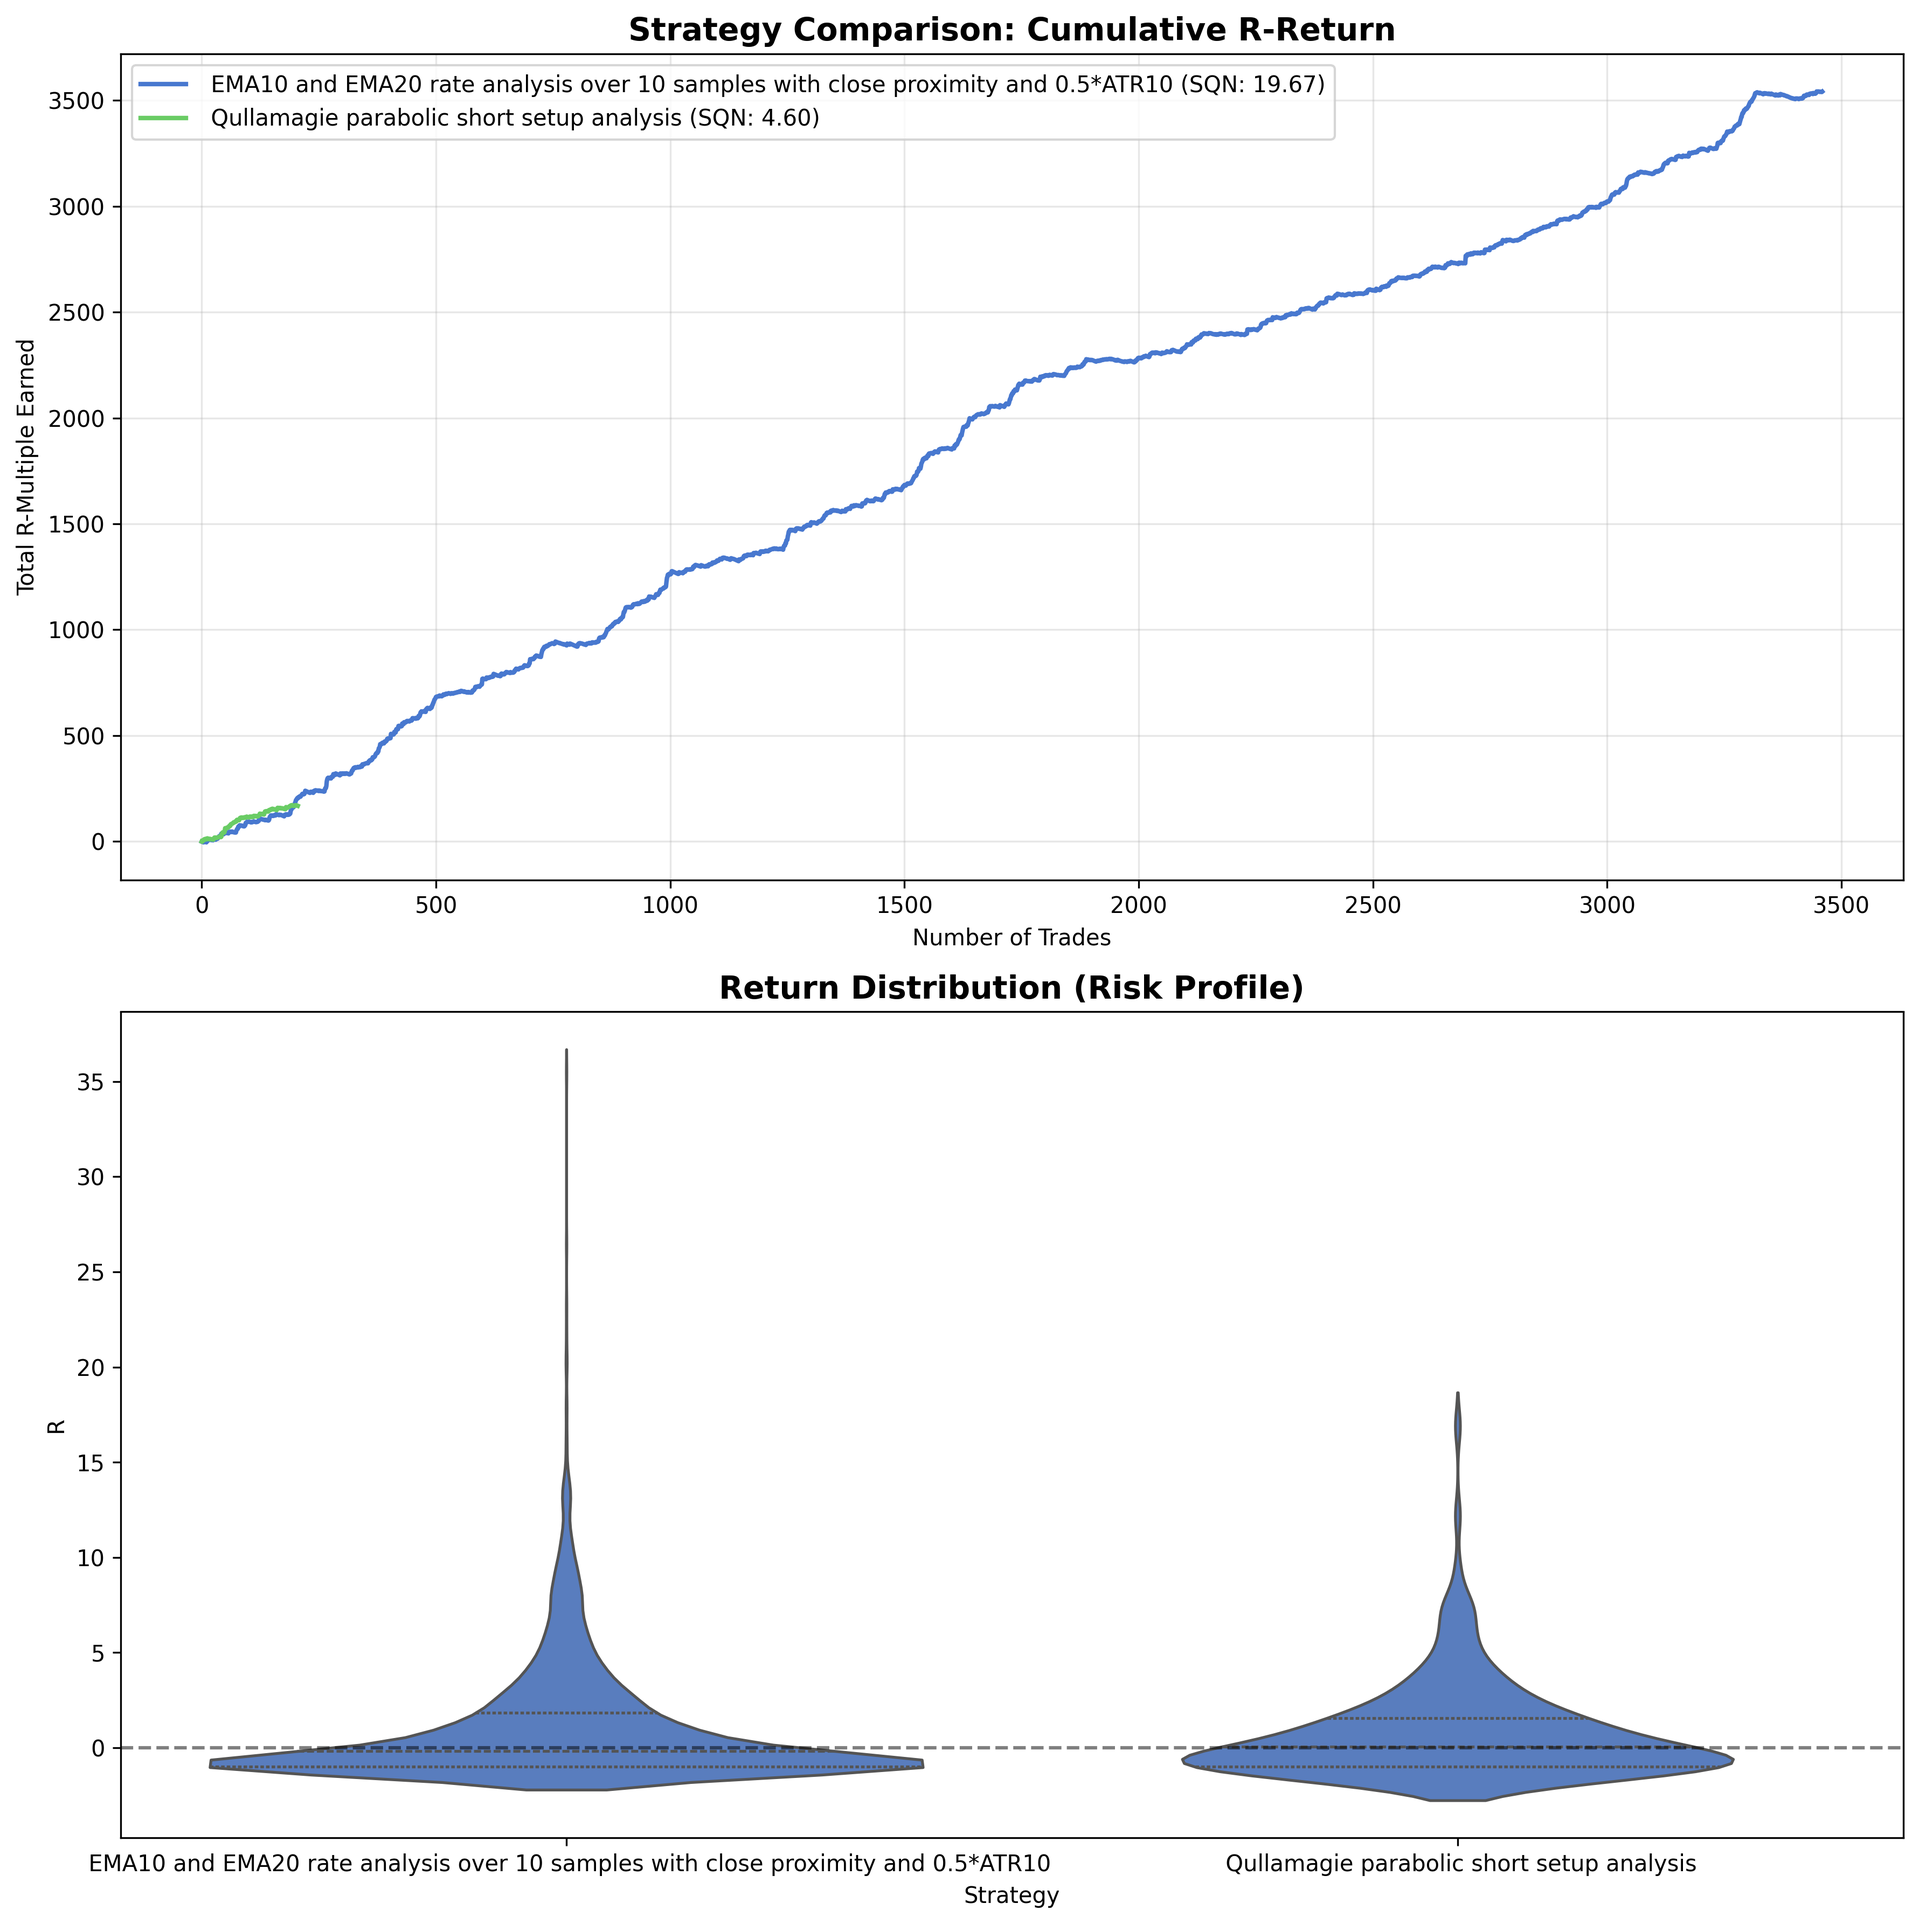
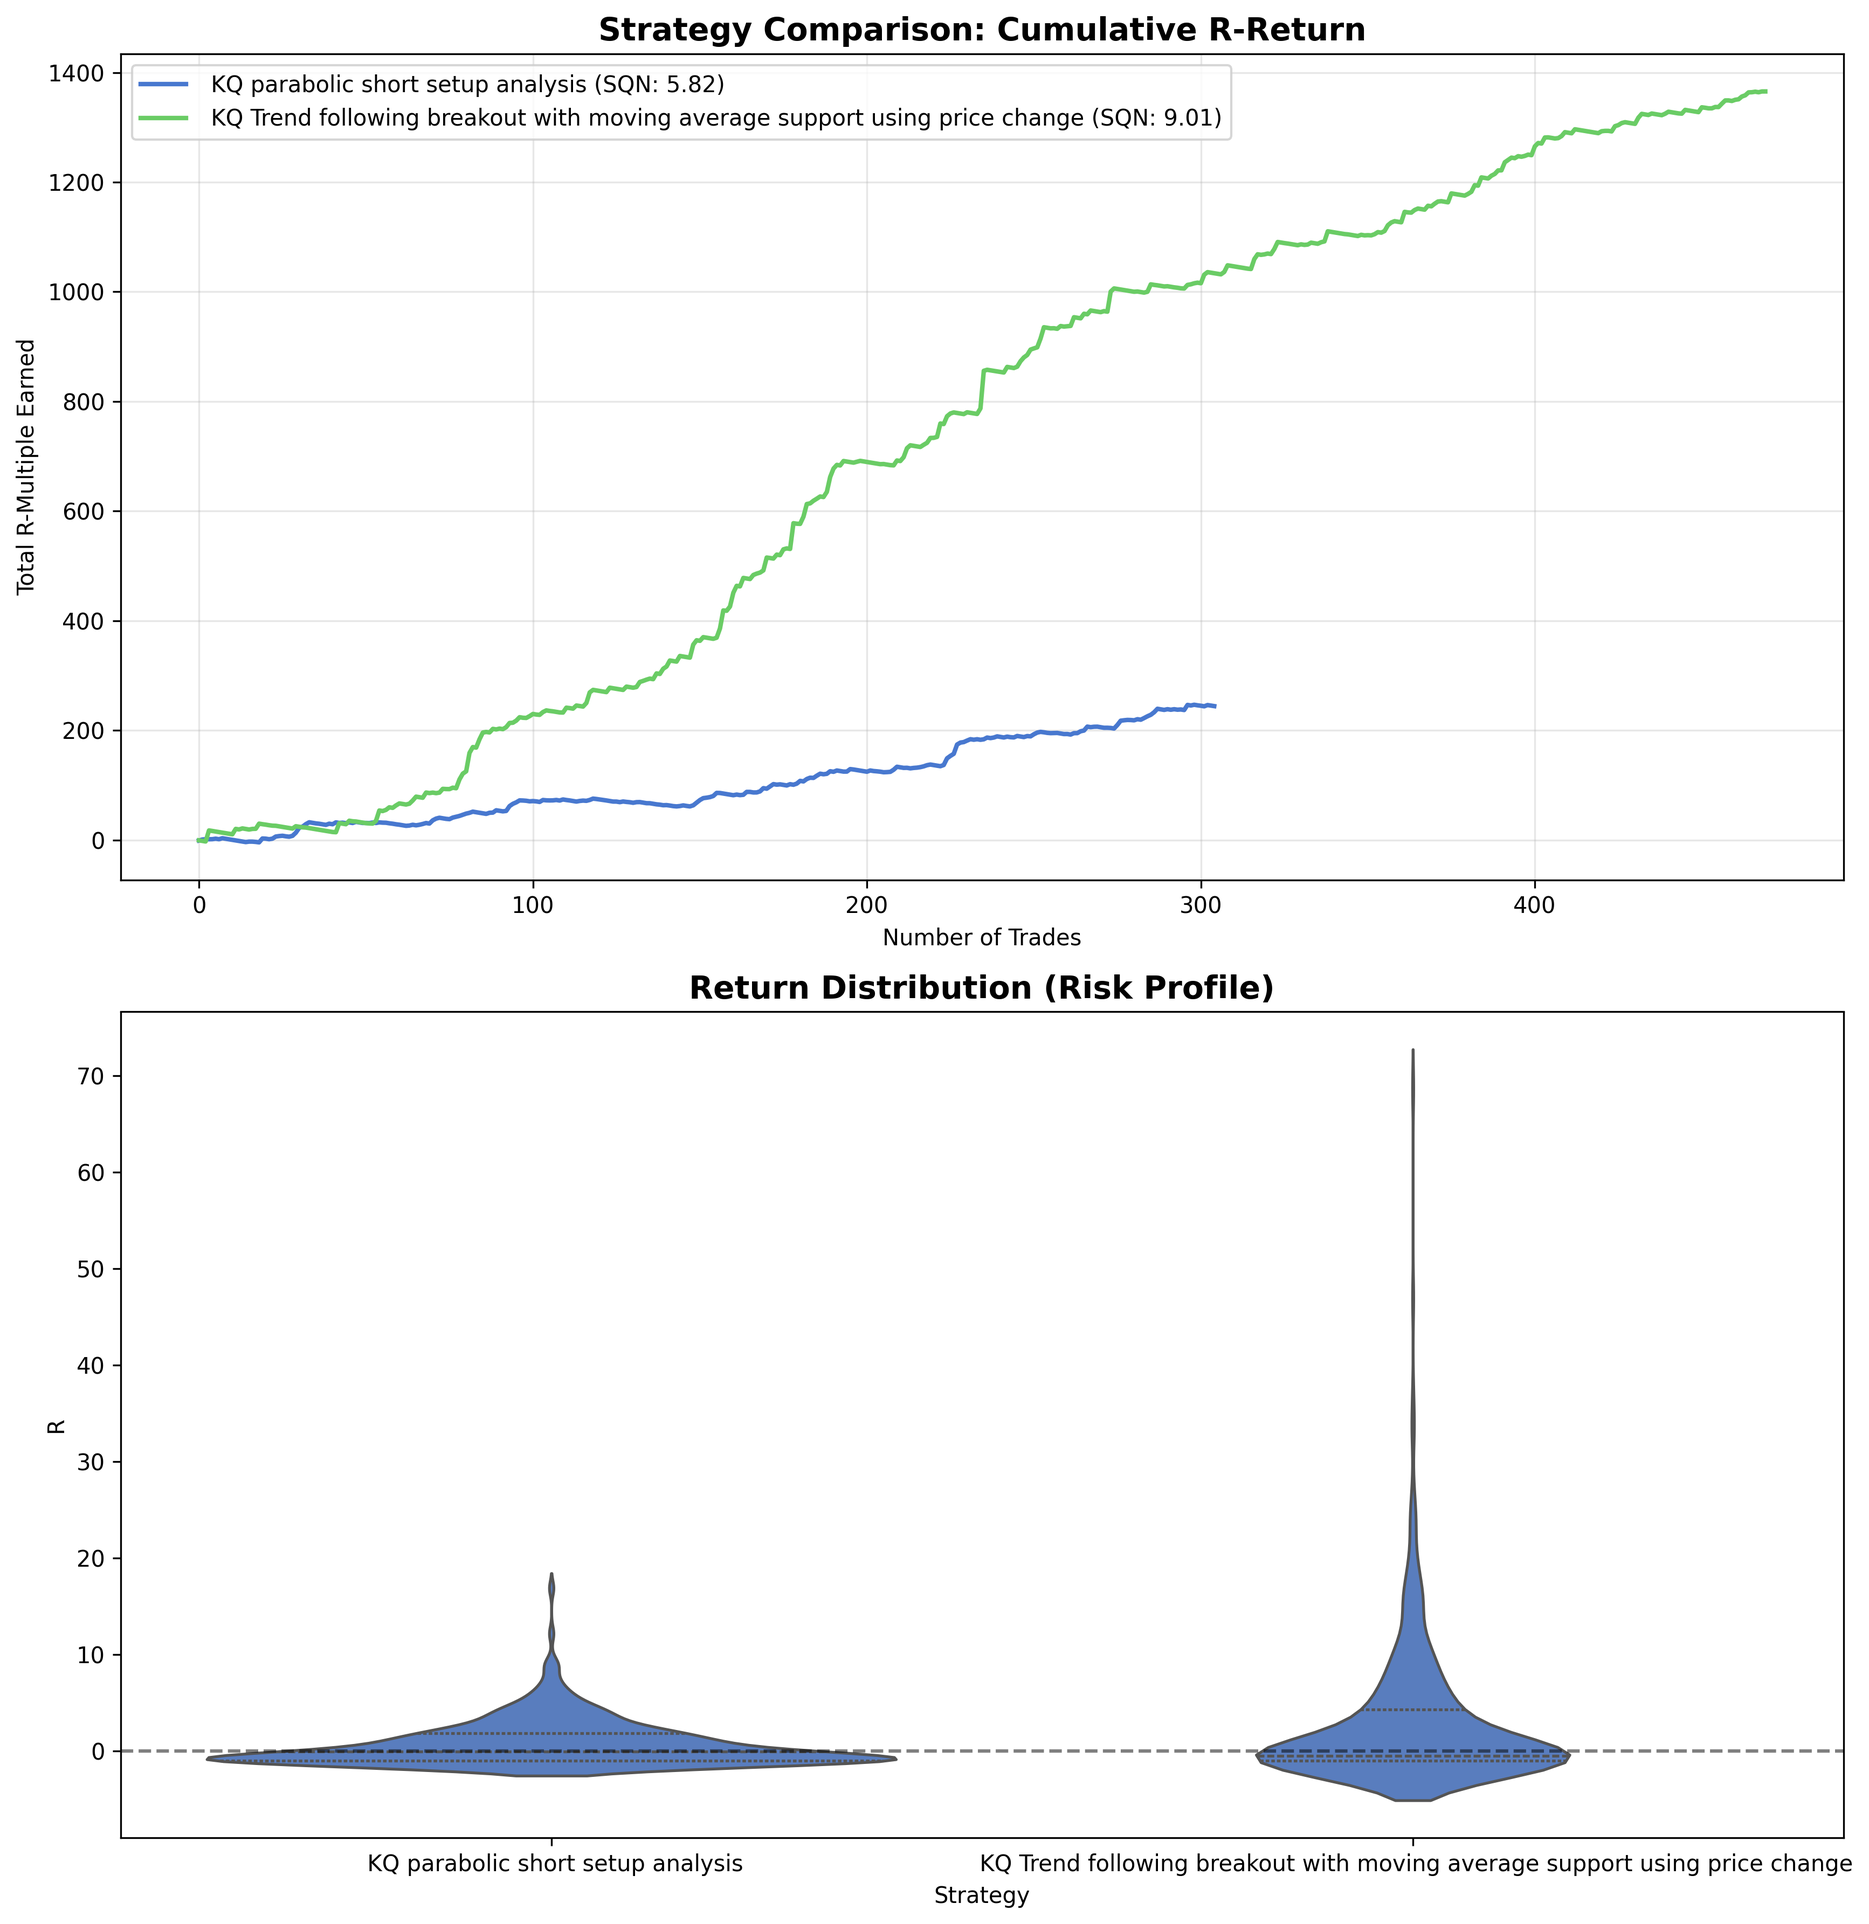
Optimize trade comparison

diff --git a/main.py b/main.py
@@ -133,16 +133,16 @@ async def parse_gherkin_query(request: Request):
 async def backtest_gherkin_query(request: Request):
     try:
         jsn = await request.json()
-        gherkin_text = jsn.get("gherkin", "")
+        queries = jsn.get("queries", [])
         start = jsn.get('start', 20)
         stop = jsn.get('stop', 0)
         stop_loss = jsn.get('stop_loss', 1)
         commision = jsn.get('commision', 0.01)
 
-        if not gherkin_text:
-            return {"success": False, "errors": "No Gherkin text provided"}
+        if len(queries) == 0:
+            return {"success": False, "errors": "No queries provided"}
 
-        trade_handler = TradeHandler()
+        trade_handlers = [TradeHandler() for _ in queries]
         errors = []
         # Define the core logic as an internal async function
         async def backtest_func():
@@ -161,11 +161,14 @@ async def backtest_gherkin_query(request: Request):
                     # Using run_in_executor allows the event loop to keep heartbeating
                     # so 'is_disconnected()' actually stays responsive.
                     loop = asyncio.get_event_loop()
-                    await loop.run_in_executor(
-                        None, 
-                        bt_query_handler.get_backtest_result,
-                        gherkin_text, trade_handler, itr, stop_loss
-                    )
+                    for i in range(len(queries)):
+                        query = queries[i]
+                        trade_handler = trade_handlers[i]
+                        await loop.run_in_executor(
+                            None, 
+                            bt_query_handler.get_backtest_result,
+                            query, trade_handler, itr, stop_loss
+                        )
                 except Exception as e:
                     errors.append(str(e))
             
@@ -184,28 +187,34 @@ async def backtest_gherkin_query(request: Request):
         except asyncio.TimeoutError:
             raise HTTPException(status_code=504, detail='Timeout')
 
-        r_multiples = trade_handler.close_df['rmulti'] - commision
-        
-        # 2. Calculate Fitness Metrics for the AI Agent
-        metrics = {
-            "total_trades": len(r_multiples),
-            "r": r_multiples,
-            "expectancy_r": r_multiples.mean() if not r_multiples.empty else 0,
-            "std_dev_r": r_multiples.std() if not r_multiples.empty else 0,
-            "max_r": r_multiples.max() if not r_multiples.empty else 0,
-            "min_r": r_multiples.min() if not r_multiples.empty else 0,
-            "win_rate": (r_multiples > 0).sum() / len(r_multiples) if len(r_multiples) > 0 else 0
-        }
-        # SQN > 1.6: Average, 2.0: Good, 3.0: Excellent, 5.0+: Holy Grail
-        metrics["sqn"] = (numpy.sqrt(metrics["total_trades"]) * 
-                  (metrics["expectancy_r"] / (metrics["std_dev_r"] + 1e-6)))
+        results = []
+        for i in range(len(queries)):
+            query = queries[i]
+            trade_handler = trade_handlers[i]
+            r_multiples = trade_handler.close_df['rmulti'] - commision
+            
+            # 2. Calculate Fitness Metrics for the AI Agent
+            metrics = {
+                "total_trades": len(r_multiples),
+                "r": r_multiples,
+                "expectancy_r": r_multiples.mean() if not r_multiples.empty else 0,
+                "std_dev_r": r_multiples.std() if not r_multiples.empty else 0,
+                "max_r": r_multiples.max() if not r_multiples.empty else 0,
+                "min_r": r_multiples.min() if not r_multiples.empty else 0,
+                "win_rate": (r_multiples > 0).sum() / len(r_multiples) if len(r_multiples) > 0 else 0
+            }
+            # SQN > 1.6: Average, 2.0: Good, 3.0: Excellent, 5.0+: Holy Grail
+            metrics["sqn"] = (numpy.sqrt(metrics["total_trades"]) * 
+                    (metrics["expectancy_r"] / (metrics["std_dev_r"] + 1e-6)))
+            metrics = {k: round(v, 2) if isinstance(v, (int, float, numpy.number)) else v for k, v in metrics.items()}
+            results.append({
+                "query": query, "metrics": metrics, "trades": trade_handler.close_df.to_dict(orient='records'),
+            })
 
         return {
             "status": "success",
-            "metrics": {k: round(v, 2) if isinstance(v, (int, float, numpy.number)) else v 
-                        for k, v in metrics.items()},
             "data": {
-                "trades": trade_handler.close_df.to_dict(orient='records'),
+                "results": results,
                 "errors": errors
             }
         }

diff --git a/aitick/query/comparator.py b/aitick/query/comparator.py
@@ -107,16 +107,16 @@ class Comparator:
     
     async def compare(self):
         ret = []
-        for query in self.config.queries:
-            payload = {
-                'gherkin': query,
-                'start': self.config.start,
-                'stop': self.config.stop,
-            }
-            # Assuming make_post is defined elsewhere in your script
-            result = await make_post('backtest', payload, 5*60*60)
-            result = json.loads(result.text)
-            ret.append({'query': query, 'metrics': result['metrics'] if result else None})
+        payload = {
+            'queries': self.config.queries,
+            'start': self.config.start,
+            'stop': self.config.stop,
+        }
+        # Assuming make_post is defined elsewhere in your script
+        result = await make_post('backtest', payload, 5*60*60)
+        result = json.loads(result.text)
+        for pt in result['data']['results']:
+            ret.append({'query': pt['query'], 'metrics': pt['metrics']})
         return ret  
 
 async def main(queries: list[str], start:int, stop:int):
@@ -131,33 +131,21 @@ async def main(queries: list[str], start:int, stop:int):
 
 if __name__ == "__main__":
     queries = [
-# """
-# Feature: pytick llm
-# Scenario: Minervini Trend Momentum with Buy and Sell Signals
-# Given stocks from index nifty50
-# When let close = latest in 1 samples of day close
-# And let sma50 = latest in 1 samples of day close sma 50
-# And let sma150 = latest in 1 samples of day close sma 100
-# And let sma200 = latest in 1 samples of day close sma 200
-# Then let buy = (close > sma50) & (sma50 > sma150) & (sma150 > sma200)
-# And let sell = (close < sma50)
-# """, 
 """
 Feature: pytick llm
-Scenario: EMA10 and EMA20 rate analysis over 10 samples with close proximity and 0.5*ATR10
+Scenario: KQ parabolic short setup analysis
 Given stocks from index nifty50
-When let ema10 = latest in 1 samples of day close ema 10
-And let ema20 = latest in 1 samples of day close ema 20
-And let ema10_rate = rate in 10 samples of day close ema 10
-And let ema20_rate = rate in 10 samples of day close ema 20
-And let close = latest in 1 samples of day close
-And let atr10 = latest in 1 samples of day close atr 10
-Then list buy = tickers with (ema10_rate > 0) & (ema20_rate > 0) & (abs(close - ema20) < atr10)
-And list sell = tickers with (ema10_rate < 0) & (ema20_rate < 0) & (abs(close - ema20) < atr10)
-""",
+When let close = latest in 1 samples of day close
+And let sma10 = latest in 1 samples of day close sma 10
+And let sma20 = latest in 1 samples of day close sma 20
+And let atr14 = latest in 1 samples of day close atr 14
+And let prev_close = oldest in 2 samples of day close
+Then let extension = (close -sma20) / atr14
+And list sell = tickers with (extension > 3) & (close < prev_close) & (sma10 > sma20)
+""", 
 """
 Feature: pytick llm
-Scenario: Qullamagie parabolic short setup analysis
+Scenario: KQ Trend following breakout with moving average support using price change
 Given stocks from index nifty50
 When let close = latest in 1 samples of day close
 And let prev_close = oldest in 2 samples of day close
@@ -167,8 +155,8 @@ And let ema50 = latest in 1 samples of day close ema 50
 And let mth_change = change in 20 samples of day close
 And let three_mth_change = change in 60 samples of day close
 And let six_mth_change = change in 120 samples of day close
-Then list leaders = tickers with (close > ema10) & (ema10 > ema20) & (ema20 > ema50) & (close > prev_close) & ((mth_change > 0.05) | (three_mth_change > 0.1) | (six_mth_change > 0.15))
-"""
+Then list buy = tickers with (close > ema10) & (ema10 > ema20) & (ema20 > ema50) & (close > prev_close) & ((mth_change > 0.2)| (three_mth_change > 0.5) | (six_mth_change > 0.8))
+""",
 ]
-    asyncio.run(main(queries=queries, start=500, stop=1))
+    asyncio.run(main(queries=queries, start=1000, stop=1))
     

diff --git a/pytick/query/trade.py b/pytick/query/trade.py
@@ -18,6 +18,7 @@ class TradeHandler:
             stop = price * \
                 (1 - stop_per / 100) if side == 'buy' else price * \
                 (1 + stop_per / 100)
+            stop = round(stop, 2)
             return self.__open_trade(ticker, side, price, time, stop)
 
         # Update existing trade with new price and time, and adjust stop if price moving in favorable direction
@@ -32,21 +33,24 @@ class TradeHandler:
             if trade_side == 'buy':
                 if price > previous_price:
                     stop = price * (1 - stop_per / 100)
+                    stop = round(stop, 2)
                     self.open_df.at[idx, 'current_stop'] = max(
                         previous_stop, stop)
-                self.open_df.at[idx, 'profit'] = self.open_df.at[idx, 'current_stop'] - \
-                    self.open_df.at[idx, 'entry']
+                self.open_df.at[idx, 'profit'] = round(self.open_df.at[idx, 'current_stop'] - \
+                    self.open_df.at[idx, 'entry'], 2)
             elif trade_side == 'sell':
                 if price < previous_price:
                     stop = price * (1 + stop_per / 100)
+                    stop = round(stop, 2)
                     self.open_df.at[idx, 'current_stop'] = min(
                         previous_stop, stop)
                 self.open_df.at[idx,
-                                'profit'] = self.open_df.at[idx, 'entry'] - self.open_df.at[idx, 'current_stop']
+                                'profit'] = round(self.open_df.at[idx, 'entry'] - self.open_df.at[idx, 'current_stop'], 2)
 
-            self.open_df.at[idx, 'rmulti'] = self.open_df.at[idx, 'profit'] / \
+            rmulti = self.open_df.at[idx, 'profit'] / \
                 abs(self.open_df.at[idx, 'entry'] -
                     self.open_df.at[idx, 'entry_stop'])
+            self.open_df.at[idx, 'rmulti'] = round(rmulti, 2)
             current_stop = self.open_df.at[idx, 'current_stop']
             # Check if stop loss hit and close trade if needed
             if trade_side == 'buy' and price < current_stop:
